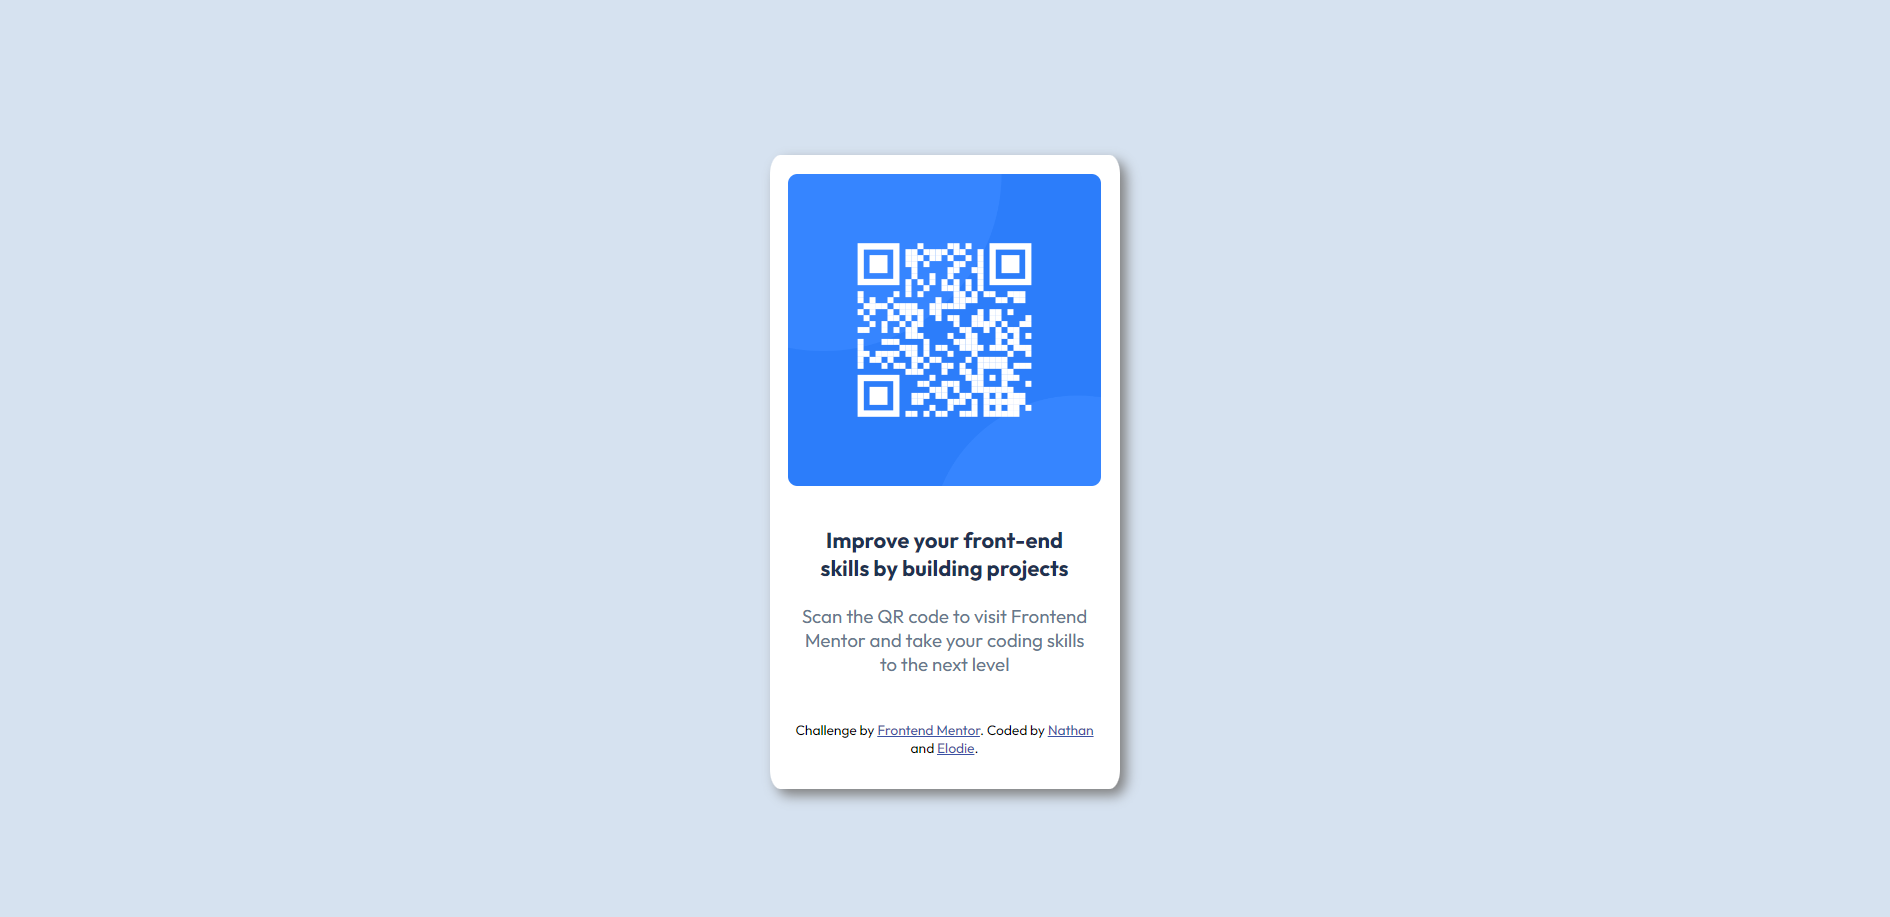
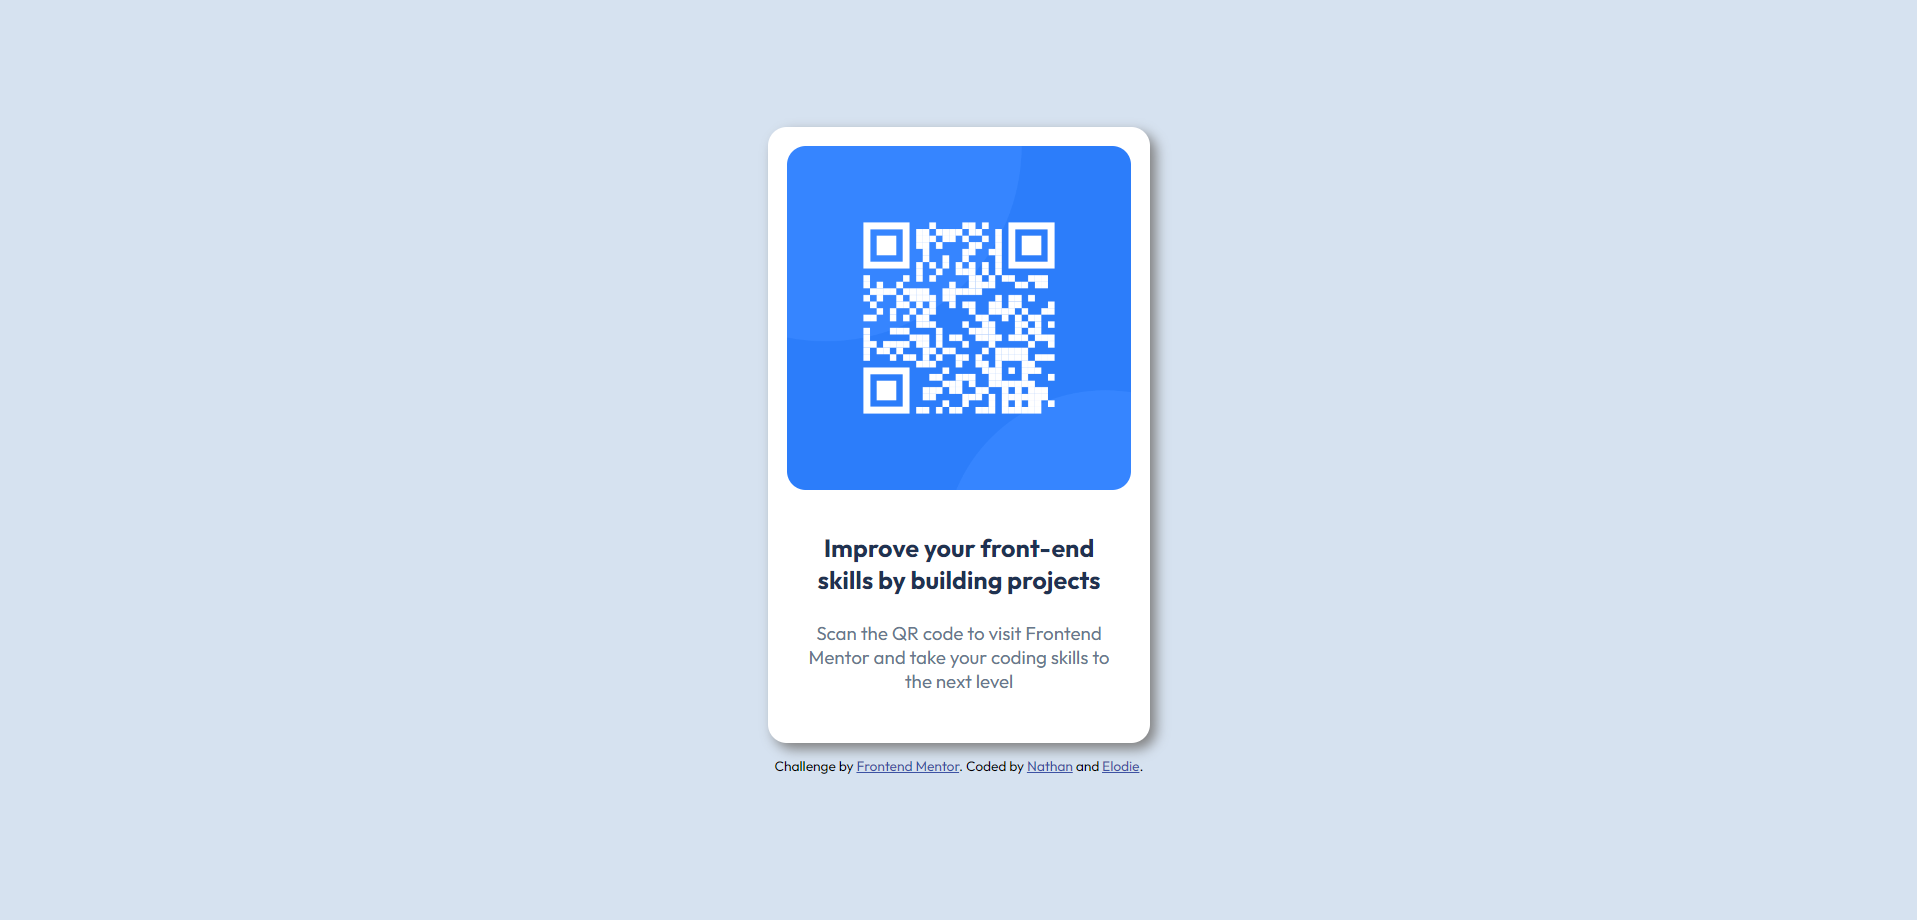
readme update

Changed region(s): [[0.3746, 0.1221, 0.6243, 0.8855]]

diff --git a/README.md b/README.md
@@ -24,7 +24,7 @@ The goal of this project was to manipulate CSS and HTML to display a QR code to 
 
 ### Links
 
--   Solution URL: [Add solution URL here](https://your-solution-url.com)
+-   Solution URL: [FrontEnd Mentor](https://www.frontendmentor.io/solutions/responsive-page-using-flexbox-AQgi9gKuor)
 -   Live Site : [Vercel App](https://qr-code-component-six-xi.vercel.app/)
 
 ## Our process
@@ -48,7 +48,8 @@ The goal of this project was to manipulate CSS and HTML to display a QR code to 
 ```css
 @media (max-width: 500px) {
     .container {
-        max-width: 250px;
+        min-width: 275px;
+        max-width: 275px;
         width: 90%;
     }
 }
